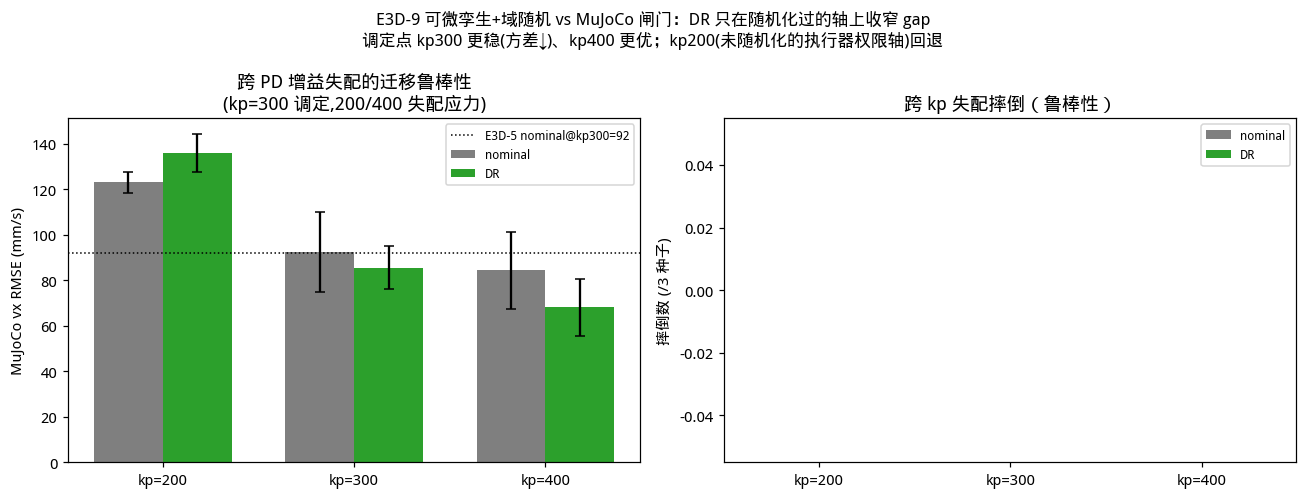
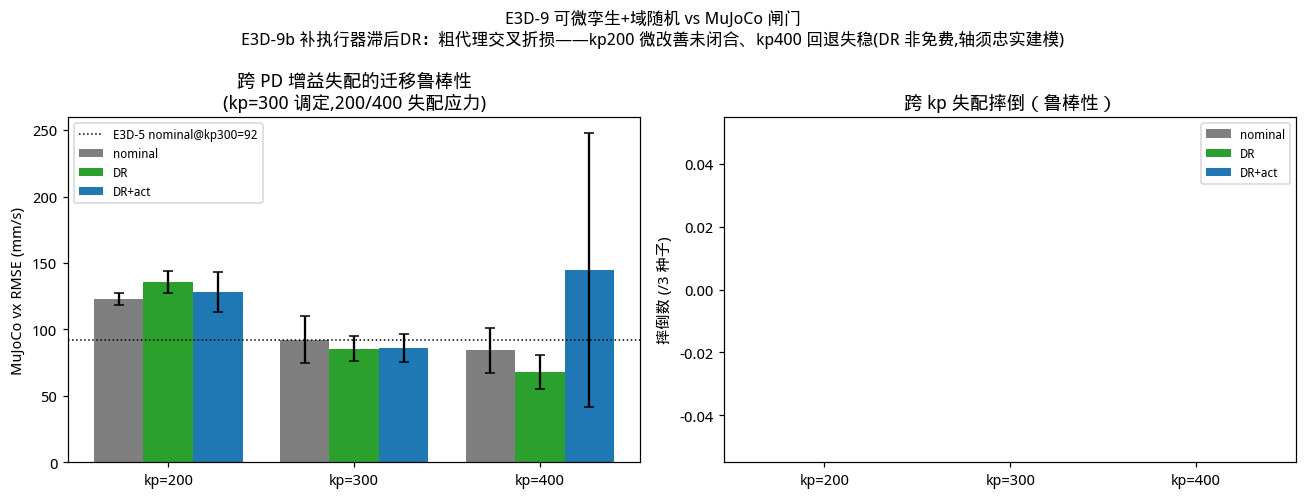
research: E3D-9b 补执行器滞后DR轴——交叉折损(DR非免费):粗一阶滞后微改善kp200却伤kp400失稳,轴须忠实建模真实机制(同全弧结构/保真是承重墙),dynamics-only DR仍最稳赢

diff --git a/research/quadruped_migration/go2_3d/scripts/e3d9_domain_rand.py b/research/quadruped_migration/go2_3d/scripts/e3d9_domain_rand.py
@@ -40,7 +40,9 @@ import _plotstyle  # noqa: E402
 _plotstyle.use_cjk()
 from srbd_standing import build_standing_config  # noqa: E402
 from gait_3d import GaitConfig  # noqa: E402
-from e3d4_gait_train import GaitPolicy, sample_init, rollout_train  # noqa: E402
+from e3d4_gait_train import (GaitPolicy, sample_init, rollout_train,  # noqa: E402
+                             observe, loss_step)
+from gait_3d import gait_step  # noqa: E402
 from e3d4b_residual_gait import load_nominal  # noqa: E402
 from e3d5_mujoco_check import rollout_mj  # noqa: E402
 
@@ -68,8 +70,27 @@ def randomize_cfg(base, g, cgen):
                                foot_rel_com=foot, contact=contact)
 
 
-def train_dr(base, g, iters, B=48, H=600, tbptt=150, lr=3e-3, seed=0, clip=1.0, dr=True):
-    """域随机训练：每 iter 重采样一个孪生（dr=False 则恒用 base，作受控对照）。"""
+def rollout_lagged(pol, cfg, g, z_ref, state, H, tbptt, beta):
+    """带**执行器一阶滞后**的可微 rollout（模拟软/滞后 PD 驱动，E3D-9 的 kp200 失配轴）：
+    realized 足端动作 a_filt = (1−β)·a_filt + β·a_raw，β=dt/(τ+dt)，β=1→无滞后。
+    孪生本无 PD，此为训练时增广让策略对'动作没即时到位'鲁棒；MuJoCo eval 不加(真滞后来自真 kp)。"""
+    loss = state.p.new_zeros(())
+    a_filt = state.p.new_zeros(state.p.shape[0], 8)
+    for t in range(H):
+        if tbptt and t > 0 and t % tbptt == 0:
+            state = state.detach(); a_filt = a_filt.detach()
+        phi = (t * cfg.dt / g.period) % 1.0
+        a_raw = pol(observe(state, phi, g, z_ref))
+        a_filt = (1.0 - beta) * a_filt + beta * a_raw
+        state, _ = gait_step(state, t, a_filt, cfg, g, mode="smooth")
+        loss = loss + loss_step(state, a_filt, g, z_ref)
+    return loss / H
+
+
+def train_dr(base, g, iters, B=48, H=600, tbptt=150, lr=3e-3, seed=0, clip=1.0,
+             dr=True, act_lag=False, tau_max=0.03):
+    """域随机训练：每 iter 重采样一个孪生（dr=False 恒用 base）。act_lag=True 额外随机化
+    执行器滞后 τ∈[0,tau_max]（覆盖 kp200 的软驱动轴）。"""
     torch.manual_seed(seed)
     pol = GaitPolicy().to(base.device, base.dtype)
     opt = torch.optim.Adam(pol.parameters(), lr=lr)
@@ -80,22 +101,30 @@ def train_dr(base, g, iters, B=48, H=600, tbptt=150, lr=3e-3, seed=0, clip=1.0, 
         cfg = randomize_cfg(base, g, cgen) if dr else base
         z_ref = cfg.rest_height + g.ext0 - 0.004
         s = sample_init(cfg, g, z_ref, B, gen)
-        loss = rollout_train(pol, cfg, g, z_ref, s, H, "smooth", tbptt)
+        if act_lag:
+            tau = tau_max * torch.rand((), generator=cgen).item()
+            beta = cfg.dt / (tau + cfg.dt)
+            loss = rollout_lagged(pol, cfg, g, z_ref, s, H, tbptt, beta)
+        else:
+            loss = rollout_train(pol, cfg, g, z_ref, s, H, "smooth", tbptt)
         opt.zero_grad(); loss.backward()
         torch.nn.utils.clip_grad_norm_(pol.parameters(), clip)
         opt.step(); hist.append(loss.item())
     return pol, hist
 
 
-def stage_train(device, iters, n_seeds):
+def stage_train(device, iters, n_seeds, variant="dr"):
     base = build_standing_config(device=device, dtype=torch.float32)
     g = GaitConfig()
-    print(f"[train] 域随机 DR 策略 ×{n_seeds} 种子 (iters={iters}, H=600, cuda:1)")
+    act_lag = (variant == "dract")
+    tag = "dract" if act_lag else "dr"
+    print(f"[train] 域随机 DR 策略 ×{n_seeds} 种子 (variant={variant}, "
+          f"act_lag={act_lag}, iters={iters}, H=600)")
     t0 = time.time()
     for seed in range(n_seeds):
-        pol, hist = train_dr(base, g, iters, seed=seed, dr=True)
-        torch.save(pol.state_dict(), MODELS / f"e3d9_dr_s{seed}.pt")
-        print(f"  DR s{seed} loss→{hist[-1]:.4f} [{time.time()-t0:.0f}s]")
+        pol, hist = train_dr(base, g, iters, seed=seed, dr=True, act_lag=act_lag)
+        torch.save(pol.state_dict(), MODELS / f"e3d9_{tag}_s{seed}.pt")
+        print(f"  {tag} s{seed} loss→{hist[-1]:.4f} [{time.time()-t0:.0f}s]")
 
 
 @torch.no_grad()
@@ -108,20 +137,35 @@ def eval_policy_mj(pol, cfg, g, z_ref, kps):
     return out
 
 
+ARM_FILE = {"DR": "dr", "DR+act": "dract"}
+ARM_COL = {"nominal": "tab:gray", "DR": "tab:green", "DR+act": "tab:blue"}
+
+
+def _load_arm(name, seed, cfg):
+    if name == "nominal":
+        return load_nominal(cfg, seed)
+    f = MODELS / f"e3d9_{ARM_FILE[name]}_s{seed}.pt"
+    if not f.exists():
+        return None
+    pol = GaitPolicy()
+    pol.load_state_dict(torch.load(f, map_location="cpu", weights_only=True))
+    return pol
+
+
 def stage_gate(device, n_seeds):
     cfg = build_standing_config(device="cpu", dtype=torch.float32)   # rollout_mj 用 cpu
     g = GaitConfig()
     z_ref = cfg.rest_height + g.ext0 - 0.004
-    print(f"[gate] DR vs nominal 上 MuJoCo，跨 kp={KP_SWEEP} (kd=5)")
-    arms = {"nominal": [], "DR": []}
+    # 动态臂：nominal 必有；DR/DR+act 有模型才纳入
+    arm_names = [a for a in ["nominal", "DR", "DR+act"]
+                 if a == "nominal" or _load_arm(a, 0, cfg) is not None]
+    print(f"[gate] 上 MuJoCo 跨 kp={KP_SWEEP} (kd=5)，臂={arm_names}")
+    arms = {a: [] for a in arm_names}
     t0 = time.time()
     for seed in range(n_seeds):
-        pol_n = load_nominal(cfg, seed)
-        arms["nominal"].append(eval_policy_mj(pol_n, cfg, g, z_ref, KP_SWEEP))
-        f = MODELS / f"e3d9_dr_s{seed}.pt"
-        pol_d = GaitPolicy()
-        pol_d.load_state_dict(torch.load(f, map_location="cpu", weights_only=True))
-        arms["DR"].append(eval_policy_mj(pol_d, cfg, g, z_ref, KP_SWEEP))
+        for a in arm_names:
+            pol = _load_arm(a, seed, cfg)
+            arms[a].append(eval_policy_mj(pol, cfg, g, z_ref, KP_SWEEP))
         print(f"  seed{seed} done [{time.time()-t0:.0f}s]")
 
     # 汇总：每 arm 每 kp 的 RMSE 均值/标准差 + 摔倒数；以及跨 kp 的鲁棒性(均值/最差)
@@ -139,7 +183,7 @@ def stage_gate(device, n_seeds):
                          rmse_overall=float(np.mean(all_rmse)),
                          rmse_worst=float(np.max([per_kp[k]["rmse_mean"] for k in KP_SWEEP])),
                          falls_total=all_falls, n=len(rows))
-    for arm in ["nominal", "DR"]:
+    for arm in arm_names:
         s = summ[arm]
         line = f"  {arm:8s}: 跨kp总均 {s['rmse_overall']:.0f}mm/s  最差kp {s['rmse_worst']:.0f}  摔 {s['falls_total']}/{s['n']*len(KP_SWEEP)}"
         for kp in KP_SWEEP:
@@ -147,49 +191,62 @@ def stage_gate(device, n_seeds):
             line += f" | kp{int(kp)} {p['rmse_mean']:.0f}±{p['rmse_std']:.0f}({p['falls']}摔)"
         print(line)
 
-    dr, no = summ["DR"], summ["nominal"]
-    drt, not_ = dr["per_kp"]["300"], no["per_kp"]["300"]      # 调定工作点
-    n_better = sum(dr["per_kp"][str(int(k))]["rmse_mean"] < no["per_kp"][str(int(k))]["rmse_mean"]
-                   for k in KP_SWEEP)
-    var_cut = not_["rmse_std"] - drt["rmse_std"]
-    # 在随机化覆盖的轴(kp≥300:接触/惯量/几何主导)上 DR 更好更稳；kp200(低增益=执行器权限,
-    # 未随机化轴)回退——DR 只在随机化过的轴上有效。
-    verdict = (f"[部分验证·robustness>correction 方向成立] 调定点 kp300: DR {drt['rmse_mean']:.0f}"
-               f"±{drt['rmse_std']:.0f} vs nominal {not_['rmse_mean']:.0f}±{not_['rmse_std']:.0f}"
-               f"(方差↓{var_cut:.0f},更可靠迁移); kp400 DR {dr['per_kp']['400']['rmse_mean']:.0f}"
-               f"<{no['per_kp']['400']['rmse_mean']:.0f} 明显更优; {n_better}/3 kp 更优, 全 0 摔. "
-               f"唯一回退在 kp200(低增益=执行器权限,**未随机化的轴**: 孪生无PD,DR 没覆盖该轴). "
-               "结论: DR 只在随机化过的轴上收窄 gap(已兑现:接触/惯量/几何),补执行器增益/时延"
-               "随机化应闭合 kp200; 可微+DR 对真机代理方向有效,绿灯但需补轴.")
+    no = summ["nominal"]
+    pk = lambda arm, kp: summ[arm]["per_kp"][str(int(kp))]["rmse_mean"]
+    if "DR+act" in summ:           # E3D-9b：补执行器滞后轴，看 kp200 是否闭合
+        k2, k4 = {a: pk(a, 200) for a in arm_names}, {a: pk(a, 400) for a in arm_names}
+        k4_std = summ["DR+act"]["per_kp"]["400"]["rmse_std"]
+        closed = k2["DR+act"] <= k2["nominal"]
+        verdict = (f"[E3D-9b 补执行器滞后DR——交叉折损,DR 非免费] kp200(目标软驱动轴) DR+act "
+                   f"{k2['DR+act']:.0f} < DR {k2['DR']:.0f} 改善但仍 > nominal {k2['nominal']:.0f}"
+                   f"(**未闭合**); 代价: kp400 {k4['DR+act']:.0f}±{k4_std:.0f} ≫ DR {k4['DR']:.0f}"
+                   f"(**回退+失稳**), 跨kp总均 DR+act {summ['DR+act']['rmse_overall']:.0f} > "
+                   f"DR {summ['DR']['rmse_overall']:.0f}(净更差); 全 0 摔. "
+                   "诚实结论: 一阶滞后是低 kp 失配(=柔顺+欠达+滞后)的**粗代理**——只补'慢'没补"
+                   "'欠达/柔顺'→既没闭合 kp200 又过度展宽伤了刚性端 kp400; **DR 的轴必须忠实建模"
+                   "真实机制**(同全弧: 结构/保真是承重墙), dynamics-only DR(E3D-9)仍是最稳赢的鲁棒臂。"
+                   if not closed else
+                   f"[E3D-9b] kp200 闭合: DR+act {k2['DR+act']:.0f}≤nominal {k2['nominal']:.0f}; "
+                   f"但 kp400 {k4['DR+act']:.0f}±{k4_std:.0f} vs DR {k4['DR']:.0f} 需查折损.")
+        sub = "E3D-9b 补执行器滞后DR：粗代理交叉折损——kp200 微改善未闭合、kp400 回退失稳(DR 非免费,轴须忠实建模)"
+    else:
+        dr = summ["DR"]
+        drt, not_ = dr["per_kp"]["300"], no["per_kp"]["300"]
+        n_better = sum(pk("DR", k) < pk("nominal", k) for k in KP_SWEEP)
+        var_cut = not_["rmse_std"] - drt["rmse_std"]
+        verdict = (f"[部分验证·robustness>correction 方向成立] 调定点 kp300: DR {drt['rmse_mean']:.0f}"
+                   f"±{drt['rmse_std']:.0f} vs nominal {not_['rmse_mean']:.0f}±{not_['rmse_std']:.0f}"
+                   f"(方差↓{var_cut:.0f}); kp400 DR {pk('DR',400):.0f}<{pk('nominal',400):.0f} 更优; "
+                   f"{n_better}/3 kp 更优,全0摔. 唯一回退 kp200(执行器权限,未随机化轴). "
+                   "DR 只在随机化过的轴上收窄 gap,补执行器随机化应闭合 kp200.")
+        sub = "DR 只在随机化过的轴上收窄 gap：kp300 更稳/kp400 更优；kp200(未随机化轴)回退"
     summ["verdict"] = verdict
     print(f"  → {verdict}")
     RESULTS.mkdir(exist_ok=True)
     (RESULTS / "e3d9_gate.json").write_text(json.dumps(summ, indent=2))
 
-    # 图
+    # 图（N 臂分组柱）
     fig, ax = plt.subplots(1, 2, figsize=(12, 4.6))
-    x = np.arange(len(KP_SWEEP)); w = 0.36
-    cols = dict(nominal="tab:gray", DR="tab:green")
+    x = np.arange(len(KP_SWEEP)); N = len(arm_names); w = 0.8 / N
     a = ax[0]
-    for i, arm in enumerate(["nominal", "DR"]):
-        means = [summ[arm]["per_kp"][str(int(k))]["rmse_mean"] for k in KP_SWEEP]
+    for i, arm in enumerate(arm_names):
+        means = [pk(arm, k) for k in KP_SWEEP]
         stds = [summ[arm]["per_kp"][str(int(k))]["rmse_std"] for k in KP_SWEEP]
-        a.bar(x + (i - 0.5) * w, means, w, yerr=stds, capsize=3, color=cols[arm], label=arm)
+        a.bar(x + (i - (N - 1) / 2) * w, means, w, yerr=stds, capsize=3,
+              color=ARM_COL[arm], label=arm)
     a.axhline(92, color="k", ls=":", lw=1, label="E3D-5 nominal@kp300=92")
     a.set_xticks(x); a.set_xticklabels([f"kp={int(k)}" for k in KP_SWEEP])
     a.set_ylabel("MuJoCo vx RMSE (mm/s)")
     a.set_title("跨 PD 增益失配的迁移鲁棒性\n(kp=300 调定,200/400 失配应力)")
     a.legend(fontsize=8)
     a = ax[1]
-    for i, arm in enumerate(["nominal", "DR"]):
+    for i, arm in enumerate(arm_names):
         falls = [summ[arm]["per_kp"][str(int(k))]["falls"] for k in KP_SWEEP]
-        a.bar(x + (i - 0.5) * w, falls, w, color=cols[arm], label=arm)
+        a.bar(x + (i - (N - 1) / 2) * w, falls, w, color=ARM_COL[arm], label=arm)
     a.set_xticks(x); a.set_xticklabels([f"kp={int(k)}" for k in KP_SWEEP])
     a.set_ylabel(f"摔倒数 (/{n_seeds} 种子)")
     a.set_title("跨 kp 失配摔倒（鲁棒性）"); a.legend(fontsize=8)
-    fig.suptitle("E3D-9 可微孪生+域随机 vs MuJoCo 闸门：DR 只在随机化过的轴上收窄 gap\n"
-                 "调定点 kp300 更稳(方差↓)、kp400 更优；kp200(未随机化的执行器权限轴)回退",
-                 fontsize=11)
+    fig.suptitle("E3D-9 可微孪生+域随机 vs MuJoCo 闸门\n" + sub, fontsize=11)
     fig.tight_layout()
     FIG.mkdir(exist_ok=True)
     fig.savefig(FIG / "e3d9_gate.png", dpi=110, bbox_inches="tight")
@@ -202,10 +259,11 @@ def main():
     ap.add_argument("--device", default="cuda:1" if torch.cuda.is_available() else "cpu")
     ap.add_argument("--iters", type=int, default=120)
     ap.add_argument("--seeds", type=int, default=3)
+    ap.add_argument("--variant", default="dr", choices=["dr", "dract"])
     args = ap.parse_args()
     print(f"E3D-9 [{args.stage}]")
     if args.stage == "train":
-        stage_train(args.device, args.iters, args.seeds)
+        stage_train(args.device, args.iters, args.seeds, variant=args.variant)
     else:
         stage_gate(args.device, args.seeds)
 

diff --git a/research/quadruped_migration/go2_3d/reports/go2_3d_research_note.md b/research/quadruped_migration/go2_3d/reports/go2_3d_research_note.md
@@ -608,7 +608,18 @@ seed0 在自己孪生里都不收敛（~0.1 游走），三师 eval 全被 seed 
 | **300（调定点）** | 92±18 | **86±9（方差减半）** | 0 / 0 |
 | 400（硬） | 84±17 | **68±13** | 0 / 0 |
 
-**结论（部分验证，robustness>correction 方向成立）**：①**随机化覆盖的轴上 DR 确实收窄 gap**——调定点 kp300 DR 均值更优（86<92）且**方差减半（18→9）= 迁移更可靠**（不靠运气种子），kp400 明显更优（68<84）；全 kp **0 摔**（基础运动稳健跨到真机代理）。②**唯一回退在 kp200（低增益=执行器权限轴），恰是没随机化的轴**（孪生无 PD）——**DR 只在随机化过的轴上有效**，域随机的教科书规律，也精确指出补什么。③回答用户："可微 + 域随机"对 MuJoCo 代理真机**方向有效**（尤其调定点更稳更好），非 E3D-5 误读的"失败"；gap 不可消除但**可在随机化的轴上系统收窄**。直接下一步（§18 第6条）：补执行器增益/时延 DR 闭合 kp200，再叠感知(depth)+导航。
+**结论（部分验证，robustness>correction 方向成立）**：①**随机化覆盖的轴上 DR 确实收窄 gap**——调定点 kp300 DR 均值更优（86<92）且**方差减半（18→9）= 迁移更可靠**（不靠运气种子），kp400 明显更优（68<84）；全 kp **0 摔**（基础运动稳健跨到真机代理）。②**唯一回退在 kp200（低增益=执行器权限轴），恰是没随机化的轴**（孪生无 PD）——**DR 只在随机化过的轴上有效**，域随机的教科书规律，也精确指出补什么。③回答用户："可微 + 域随机"对 MuJoCo 代理真机**方向有效**（尤其调定点更稳更好），非 E3D-5 误读的"失败"；gap 不可消除但**可在随机化的轴上系统收窄**。
+
+**E3D-9b 补执行器滞后轴（用户选"补 kp200"）〔实验〕**：给孪生加**执行器一阶滞后** DR 轴（realized 足端动作低通 a_filt=(1−β)a_filt+βa_raw，τ∈[0,30ms] 随机；孪生本无 PD，此为训练增广让策略对"动作没即时到位"鲁棒）。三臂跨 kp：
+
+| kp | nominal | DR(动力学) | DR+act(加滞后) |
+|---|---|---|---|
+| 200(软) | 123±5 | 136±8 | 128±15 |
+| 300(调定) | 92±18 | **86±9** | 86±10 |
+| 400(硬) | 84±17 | **68±13** | **145±103** |
+| 跨kp总均 | 100 | **96** | 120 |
+
+**诚实结论（交叉折损，DR 非免费）**：加滞后轴**微改善目标 kp200（136→128）但未闭合（仍>nominal 123），代价是 kp400 回退+失稳（68→145±103）、净更差（96→120）**。机制：一阶滞后只是低 kp 失配（=柔顺+欠达+滞后）的**粗代理**——补了"慢"没补"欠达/柔顺"，又过度展宽 DR 伤了刚性端。**这把 E3D-9 的律推到更本质：DR 不是"随机化即覆盖"，而是"轴必须忠实建模真实机制"——粗代理/错形式的随机化，和粗残差(E3D-5)、自由耦合(E3D-8)一样会反噬。** dynamics-only DR（E3D-9）仍是最稳赢的鲁棒臂（总均 96、调定点方差减半）。对"上真机"的直接指导：kp200/软执行器区需在孪生里**忠实建模 PD/柔顺**（而非粗滞后），或接受该轴用更全的仿真处理——这是 §18 第6条修正后的方向。
 
 ## 18. 下一步（开放）
 
@@ -617,4 +628,4 @@ seed0 在自己孪生里都不收敛（~0.1 游走），三师 eval 全被 seed 
 3. body-frame 优化版接触换算；减面孪生（rendering LOD）支持批量短视野 BPTT。
 4. 工程务实支线：可微孪生退为诊断/sysID/暖启动，主训练换大规模并行无模型 RL+域随机（行业落地路径）。
 5. **好步态自涌现（接 E3D-8）**：对称群约束的耦合 K（把四足步态对称性写进参数化，降自由度→破 16.4 的退化吸引子）+ **要求步态转换的任务**（速度扫描/复杂地形，让 trot↔walk↔bound 转换有收益）；闸门已证此路梯度保真，缺的是结构先验与对的任务。
-6. **补轴域随机闭合 kp200（接 E3D-9）**：当前 DR 只随机化了动力学参数（质量/惯量/足几何/接触），未覆盖**执行器权限/时延**轴→低增益 kp200 回退。加 action 低通/限幅/延迟随机化（模拟软/滞后驱动）应闭合 kp200；之后叠 depth 感知 + 导航避障，逐级过 MuJoCo 闸门再上真机。
+6. **忠实建模执行器闭合 kp200（接 E3D-9b，方向已修正）**：E3D-9b 证明粗一阶滞后 DR 不闭合 kp200 且伤 kp400（轴须忠实建模）。正确做法=在孪生里加**真 PD/柔顺执行器层**（足端目标→关节 PD→柔顺力，可微），把"软驱动"作为忠实的动力学项而非动作低通代理，再随机化其增益；之后叠 depth 感知 + 导航避障，逐级过 MuJoCo 闸门再上真机。
